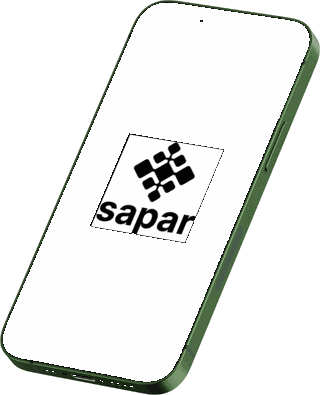
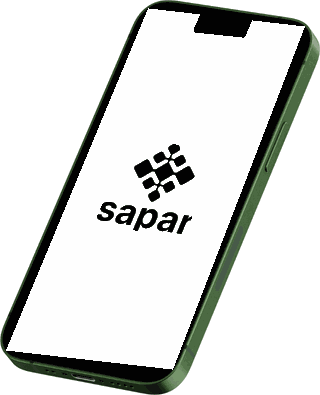
fix(вики): у плитки приложения скруглены углы, у телефона вернулась чёлка
Вырез пропал не сам по себе: в присланном рендере он ЧЁРНЫЙ НА ЧЁРНОМ экране, и
перекраска экрана в белый стёрла его вместе с фоном. Нарисован заново — по долям
экрана, поэтому повторяет наклон корпуса и упирается в верхнюю кромку, как
настоящий.

Углы плитки скруглены: в рендере они прямые, а у приложения так не бывает.
Заодно убран призрачный квадрат вокруг знака «sapar» — это была сглаженная
кромка белой плитки, которая на белом экране осталась видимой рамкой. Теперь
внутри экрана белится ВСЁ, кроме самой плитки, а не «только чёрное»: одно
правило вместо трёх исключений, и ореолов не остаётся ни у одной модели.

Как это сделано, записано в src/assets/phoneTilted.js — там же геометрия экрана,
если модель понадобится другому разделу.

Проверено в браузере: три карточки, у всех белый экран с вырезом, у двух —
плитка приложения со скруглёнными углами.

diff --git a/src/assets/phoneTilted.js b/src/assets/phoneTilted.js
@@ -4,10 +4,16 @@
  * другой раздел: это просто картинка устройства с ПУСТЫМ БЕЛЫМ экраном, на
  * который что угодно кладётся сверху.
  *
- * Откуда взялась: рендер владельца. Фон вокруг корпуса вырезан заливкой от
- * краёв кадра — «все белые пиксели» вырезать нельзя, внутри белым нарисованы
- * блики на корпусе. Чёрный экран перекрашен в белый по точному значению
- * (у экрана 0,0,0, у плиток приложений — 38,38,38, поэтому плитки не пострадали).
+ * Откуда взялась: рендер владельца. Что с ним сделано и почему:
+ *   • фон вокруг корпуса вырезан заливкой ОТ КРАЁВ кадра — «все белые пиксели»
+ *     вырезать нельзя, внутри белым нарисованы блики на корпусе;
+ *   • экран перекрашен из чёрного в белый: внутри экрана белится ВСЁ, кроме
+ *     самой плитки приложения. Не «перекрасить чёрное»: от плитки тогда
+ *     остаётся сглаженная кромка, и на белом экране это призрачный квадрат;
+ *   • углы плитки скруглены — в рендере они прямые, а у приложения так не
+ *     бывает;
+ *   • вырез («чёлка») нарисован заново: в исходнике он чёрный на чёрном экране
+ *     и после перекраски исчезал вместе с ним.
  *
  * Рядом лежат готовые варианты со значками приложений: phone-taxi-pro.png и
  * phone-sapar.png. Значок там ЧАСТЬ рендера, а не наложен сверху: в рендере он
